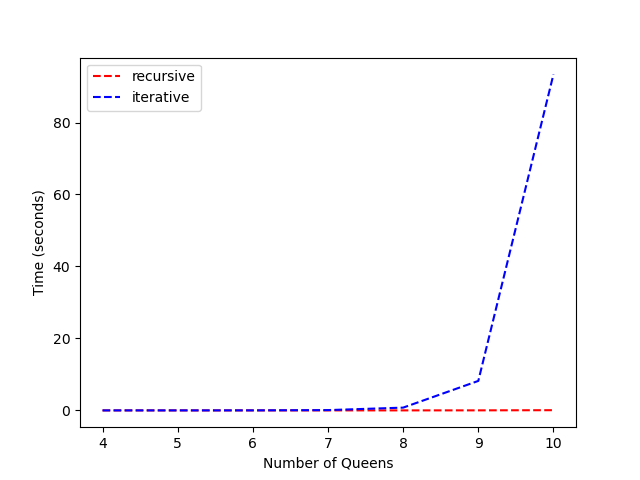
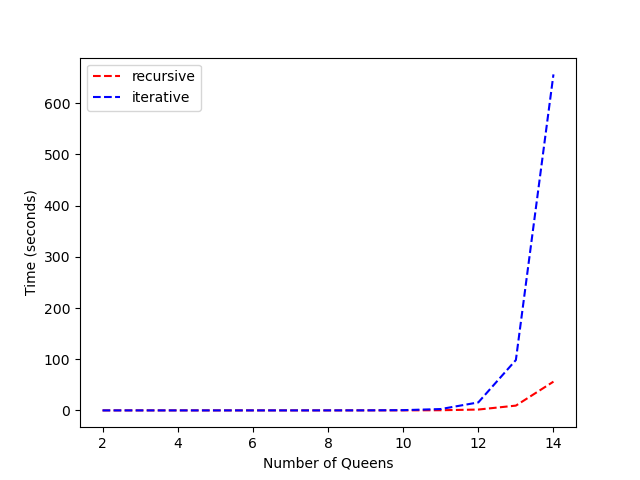
update nqueen iterative algorithm

diff --git a/practice/nqueen.py b/practice/nqueen.py
@@ -1,6 +1,5 @@
-from itertools import permutations
 from time import time
-from os import path, environ
+from os import path
 import pickle
 import matplotlib.pyplot as plt
 
@@ -16,23 +15,19 @@ def timer(func):
         return result
     return wrap_func
 
+
 @timer
 def nqueen_recursive(N):
-    numSol = 0  
+    numOfSol = 0  
 
     b = N*[-1] 
     colFree = N*[1] 
     upFree = (2*N - 1)*[1] 		
     downFree = (2*N - 1)*[1]    		
 
-    def printBoard(b):
-        for row in range(N):
-            print([0 if i != b[row] else 1 for i in range(N)])
-        print()
-
     def putQueen(r, b, colFree, upFree, downFree):
         nonlocal N
-        nonlocal numSol
+        nonlocal numOfSol
         for c in range(N): 
             if colFree[c] and upFree[r+c] and downFree[r-c+N-1]:
                 b[r] = c
@@ -40,68 +35,64 @@ def nqueen_recursive(N):
                 colFree[c] = upFree[r+c] = downFree[r-c+N-1] = 0
 
                 if r == N-1:
-                    # printBoard(b)
-                    numSol += 1
+                    numOfSol += 1
                 else:
                     putQueen(r+1, b, colFree, upFree, downFree)
                 colFree[c] = upFree[r+c] = downFree[r-c+N-1] = 1
                                                                 
     putQueen(0, b, colFree, upFree, downFree)
-    print(f'number of solutions : {numSol}')
+    print(f'Number of Solutions : {numOfSol}')
+
 
 @timer
 def nqueen_iterative(N):
+    queens = []
+    numOfSol = 0
 
-    def print_table():
+    def is_queen_safe(row, col):
+        nonlocal queens
+        for r, c in enumerate(queens):
+            if r == row or c == col or abs(row - r) == abs(col - c):
+                return False
+        return True
+
+    def solve():
+        nonlocal queens
         nonlocal N
-        for row in range(N):
-            print([0 if i == 1 else 1 for i in table[row]])
-
-    def put_queen(x,y):
-        nonlocal N
-        if table[y][x] == 0:
-            for m in range(N):
-                table[y][m] = 1
-                table[m][x] = 1
-                table[y][x] = 2
-                if y+m <= N-1 and x+m <= N-1:
-                    table[y+m][x+m] = 1
-                if y-m >= 0 and x+m <= N-1:
-                    table[y-m][x+m] = 1
-                if y+m <= N-1 and x-m >= 0:
-                    table[y+m][x-m] = 1
-                if y-m >= 0 and x-m >= 0:
-                    table[y-m][x-m] = 1
-            return True
-        else:
-            return False
-
-    table = [[0]*N for _ in range(N)]    
-    perms = permutations([i for i in range(N)])
-
-
-    num_comb = 0
-
-    for perm in perms:
-        is_solution = True
-        for i in range(N):
-            is_solution = is_solution and put_queen(perm[i], i)
-        if is_solution:
-            # print_table()
-            num_comb += 1
-            # print(f"solution{num_comb}")
-            # print(" ")
-        table = [[0] * N for _ in range(N)]
+        nonlocal numOfSol
+        queens = []
+        col = row = 0
+        while True:
+            while col < N and not is_queen_safe(row, col):
+                col += 1
+            if col < N:
+                queens.append(col)
+                if row + 1 >= N:
+                    numOfSol += 1
+                    queens.pop()
+                    col = N
+                else:
+                    row += 1
+                    col = 0
+            if col >= N:
+                if row == 0:  
+                    return 
+                col = queens.pop() + 1
+                row -= 1
     
-    print(f'number of solutions : {num_comb}')
+    
+    solve()
+    print(f"Number of Solutions : {numOfSol}")
+
 
 time_capture = {
     'nqueen_recursive': [],
     'nqueen_iterative': []
 }
 
+
 def nqueen():
-    for n in range(4, 11):
+    for n in range(2, 15):
         nqueen_recursive(n)
         nqueen_iterative(n)
 
@@ -113,28 +104,22 @@ def nqueen():
 def plot_graph():
     with open('nqueen_time_capture.pkl', 'rb') as file:
         time_capture = pickle.load(file)
+    print(time_capture)
 
     recursive = list(map(lambda x: x[1], time_capture['nqueen_recursive']))
     iterative = list(map(lambda x: x[1], time_capture['nqueen_iterative']))
-    N = [i for i in range(4, 11)]
+    N = [i for i in range(2, 15)]
     plt.xlabel('Number of Queens')
     plt.ylabel('Time (seconds)')
     plt.plot(N, recursive, 'r--', label='recursive')
     plt.plot(N, iterative, 'b--', label='iterative')
     plt.legend(loc='upper left')
     plt.show()
-
-def suppress_qt_warnings():
-    environ["QT_DEVICE_PIXEL_RATIO"] = "0"
-    environ["QT_AUTO_SCREEN_SCALE_FACTOR"] = "1"
-    environ["QT_SCREEN_SCALE_FACTORS"] = "1"
-    environ["QT_SCALE_FACTOR"] = "1"
+ 
 
 if __name__ == '__main__':
-    suppress_qt_warnings()
     if not path.isfile('./nqueen_time_capture.pkl'):
         nqueen()
     plot_graph()
-
 
 
